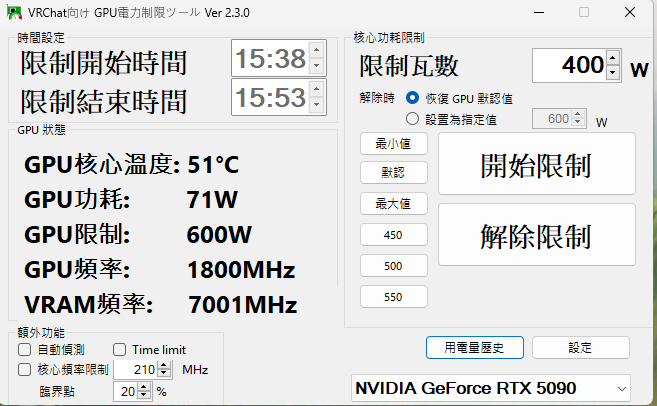
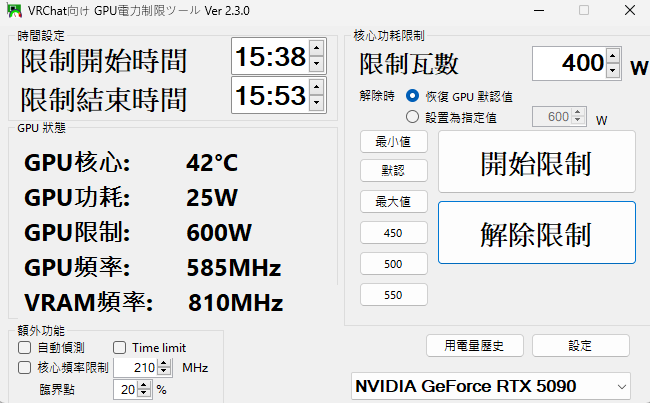
20250718

diff --git a/VRCGPUTool/Form/MainForm.cs b/VRCGPUTool/Form/MainForm.cs
@@ -35,6 +35,7 @@ namespace VRCGPUTool.Form
         private bool ignoreTimeCheck = false;
         internal int limittime = 0;
         private DateTime datetime_now = DateTime.Now;
+        private int uiUpdateCounter = 0;
 
         private void MainForm_Load(object sender, EventArgs e)
         {
@@ -62,7 +63,7 @@ namespace VRCGPUTool.Form
             GPUCorePLValue.Text = "GPU限制:        " + firstGpu.PLimit.ToString() + "W";
 
 
-            GPUreadTimer.Interval = 1000;
+            GPUreadTimer.Interval = 800;
             GPUreadTimer.Enabled = true;
 
             BeginTime.Enabled = limitime.Checked;
@@ -93,11 +94,11 @@ namespace VRCGPUTool.Form
 
                 if (CoreLimitEnable.Checked == true)
                 {
-                    nvsmi.nvidia_smi("-lgc 210," + CoreClockSetting.Value + "--id=" + g.UUID);
+                    nvsmi.nvidia_smi($"-lgc 210,{CoreClockSetting.Value}--id={g.UUID}");
                 }
 
-                nvsmi.nvidia_smi("-pl " + PowerLimitValue.Value.ToString() + " --id=" + g.UUID);
-                GPUCorePLValue.Text = "GPU限制:        " + PowerLimitValue.Value.ToString() + "W";
+                nvsmi.nvidia_smi($"-pl {PowerLimitValue.Value} --id={g.UUID}");
+                GPUCorePLValue.Text = $"GPU限制:        {PowerLimitValue.Value}W";
             }
             else
             {
@@ -120,20 +121,20 @@ namespace VRCGPUTool.Form
 
                 if (CoreLimitEnable.Checked == true)
                 {
-                    nvsmi.nvidia_smi("-rgc --id=" + g.UUID);
+                    nvsmi.nvidia_smi($"-rgc --id={g.UUID}");
                 }
 
                 if (expection == false)
                 {
                     if (ResetGPUDefaultPL.Checked == true)
                     {
-                        nvsmi.nvidia_smi("-pl " + g.PLimitDefault.ToString() + " --id=" + g.UUID);
-                        GPUCorePLValue.Text = "GPU限制:        " + g.PLimitDefault.ToString() + "W";
+                        nvsmi.nvidia_smi($"-pl {g.PLimitDefault} --id={g.UUID}");
+                        GPUCorePLValue.Text = $"GPU限制:        {g.PLimitDefault}W";
                     }
                     else
                     {
-                        nvsmi.nvidia_smi("-pl " + SpecificPLValue.Value.ToString() + " --id=" + g.UUID);
-                        GPUCorePLValue.Text = "GPU限制:        " + SpecificPLValue.Value.ToString() + "W";
+                        nvsmi.nvidia_smi($"-pl {SpecificPLValue.Value} --id={g.UUID}");
+                        GPUCorePLValue.Text = $"GPU限制:        {SpecificPLValue.Value}W";
                     }
                 }
             }
@@ -151,7 +152,10 @@ namespace VRCGPUTool.Form
                     Limit_Action(true, false);
                 }
             }
-            Limit_Action(true, false);
+            else
+            {
+                Limit_Action(true, false);
+            }
         }
 
         private void ForceUnlimit_Click(object sender, EventArgs e)
@@ -166,7 +170,10 @@ namespace VRCGPUTool.Form
                     Limit_Action(false, false);
                 }
             }
-            Limit_Action(false, false);
+            else
+            {
+                Limit_Action(false, false);
+            }
         }
 
         private void SelectGPUChanged(object sender, EventArgs e)
@@ -178,18 +185,46 @@ namespace VRCGPUTool.Form
 
         private void GPUreadTimer_Tick(object sender, EventArgs e)
         {
-            // Prevent unnecessary updates if form is minimized or not visible
-            if (!this.Visible || this.WindowState == FormWindowState.Minimized)
+            if (this.Visible == false || this.WindowState == FormWindowState.Minimized)
             {
                 return;
             }
 
-            if(nvsmi.NvsmiWorker.IsBusy == false)
-            {
-                nvsmi.NvsmiWorker.RunWorkerAsync();
-            }
-            // Even if worker is busy, we don't want UI to appear frozen
+            uiUpdateCounter++;
 
+            if (uiUpdateCounter % 2 == 0) // Executes every 2 seconds
+            {
+                if (nvsmi.NvsmiWorker.IsBusy == false)
+                {
+                    nvsmi.NvsmiWorker.RunWorkerAsync();
+                }
+
+                if (AutoDetect.Checked == true && limitstatus == true)
+                {
+                    try
+                    {
+                        if (autoLimit.CheckAutoLimit(gpuStatuses.ElementAt(GpuIndex.SelectedIndex)))
+                        {
+                            Limit_Action(true, false);
+                        }
+                    }
+                    catch (Exception ex)
+                    {
+                        MessageBox.Show($"自動限制檢查時發生錯誤: {ex.Message}", "警告", MessageBoxButtons.OK, MessageBoxIcon.Warning);
+                    }
+                }
+
+                datetime_now = DateTime.Now;
+                if (datetime_now.Hour == BeginTime.Value.Hour && datetime_now.Minute == BeginTime.Value.Minute && !limitstatus && limitime.Checked)
+                {
+                    Limit_Action(true, false);
+                }
+                if (datetime_now.Hour == EndTime.Value.Hour && datetime_now.Minute == EndTime.Value.Minute && limitstatus && limitime.Checked)
+                {
+                    AutoDetect.Checked = false;
+                    Limit_Action(false, false);
+                }
+            }
 
             if (limitstatus)
             {
@@ -198,33 +233,6 @@ namespace VRCGPUTool.Form
             else
             {
                 limittime = 0;
-            }
-
-            if (AutoDetect.Checked == true && limitstatus == true)
-            {
-                try
-                {
-                    if (autoLimit.CheckAutoLimit(gpuStatuses.ElementAt(GpuIndex.SelectedIndex)))
-                    {
-                        Limit_Action(true, false);
-                    }
-                }
-                catch (Exception ex)
-                {
-                    MessageBox.Show($"自動限制檢查時發生錯誤: {ex.Message}", "警告", MessageBoxButtons.OK, MessageBoxIcon.Warning);
-                }
-            }
-
-            datetime_now = DateTime.Now;
-            if (datetime_now.Hour == BeginTime.Value.Hour && datetime_now.Minute == BeginTime.Value.Minute && !limitstatus && limitime.Checked)
-            {
-                Limit_Action(true, false);
-            }
-            if (datetime_now.Hour == EndTime.Value.Hour && datetime_now.Minute == EndTime.Value.Minute && limitstatus && limitime.Checked)
-            {
-                AutoDetect.Checked = false;
-
-                Limit_Action(false, false);
             }
         }
 
@@ -415,7 +423,7 @@ namespace VRCGPUTool.Form
 
         internal void UpdateGpuInfoUI(GpuStatus g)
         {
-            GPUCoreTemp.Text = $"GPU核心溫度: {g.CoreTemp}°C";
+            GPUCoreTemp.Text = $"GPU核心:        {g.CoreTemp}°C";
             GPUTotalPower.Text = $"GPU功耗:        {g.PowerDraw}W";
             GPUCorePLValue.Text = $"GPU限制:        {g.PLimit}W";
             GPUCoreClockValue.Text = $"GPU頻率:        {g.CoreClock}MHz";

diff --git a/VRCGPUTool/Util/StartupTask.cs b/VRCGPUTool/Util/StartupTask.cs
@@ -1,7 +1,7 @@
-using System;
+using System;
 using System.IO;
 using System.Windows.Forms;
-using TaskScheduler;
+using Microsoft.Win32.TaskScheduler;
 
 namespace VRCGPUTool.Util
 {
@@ -13,96 +13,49 @@ namespace VRCGPUTool.Util
 
         public void registerTask()
         {
-            ITaskService taskservice = null;
-            ITaskFolder taskfolder = null;
-
             try
             {
-                taskservice = new TaskScheduler.TaskScheduler();
-                taskservice.Connect();
-                taskfolder = taskservice.GetFolder("\\");
-                var path = "\\" + TASK_NAME;
+                using (TaskService ts = new TaskService())
+                {
+                    TaskDefinition td = ts.NewTask();
+                    td.RegistrationInfo.Author = AUTHOR;
+                    td.RegistrationInfo.Description = DESCRIPTION;
 
-                ITaskDefinition taskDefinition = taskservice.NewTask(0);
-                IRegistrationInfo registrationInfo = taskDefinition.RegistrationInfo;
-                IActionCollection actionCollection = taskDefinition.Actions;
-                IExecAction execAction = (IExecAction)actionCollection.Create(_TASK_ACTION_TYPE.TASK_ACTION_EXEC);
-                ITriggerCollection triggerCollection = taskDefinition.Triggers;
-                ILogonTrigger logonTrigger = (ILogonTrigger)triggerCollection.Create(_TASK_TRIGGER_TYPE2.TASK_TRIGGER_LOGON);
-                ITaskSettings taskSettings = taskDefinition.Settings;
-                IPrincipal principal = taskDefinition.Principal;
+                    td.Principal.UserId = $@"{Environment.UserDomainName}\{Environment.UserName}";
+                    td.Principal.LogonType = TaskLogonType.InteractiveToken;
+                    td.Principal.RunLevel = TaskRunLevel.Highest;
 
-                taskSettings.ExecutionTimeLimit = "PT0S";
-                taskSettings.DisallowStartIfOnBatteries = true;
-                taskSettings.Priority = 7;
+                    LogonTrigger lt = new LogonTrigger();
+                    lt.UserId = $@"{Environment.UserDomainName}\{Environment.UserName}";
+                    td.Triggers.Add(lt);
 
-                logonTrigger.Enabled = true;
-                logonTrigger.UserId = $@"{Environment.UserDomainName}\{Environment.UserName}";
+                    td.Settings.ExecutionTimeLimit = TimeSpan.Zero;
+                    td.Settings.DisallowStartIfOnBatteries = true;
+                    td.Settings.Priority = System.Diagnostics.ProcessPriorityClass.BelowNormal;
 
-                registrationInfo.Author = AUTHOR;
-                registrationInfo.Description = DESCRIPTION;
+                    td.Actions.Add(new ExecAction(Application.ExecutablePath, null, Path.GetDirectoryName(Application.ExecutablePath)));
 
-                principal.UserId = $@"{Environment.UserDomainName}\{Environment.UserName}";
-                principal.LogonType = _TASK_LOGON_TYPE.TASK_LOGON_INTERACTIVE_TOKEN;
-                principal.RunLevel = _TASK_RUNLEVEL.TASK_RUNLEVEL_HIGHEST;
-
-                execAction.Path = Application.ExecutablePath;
-                execAction.WorkingDirectory = Path.GetDirectoryName(Application.ExecutablePath);
-
-                taskfolder.RegisterTaskDefinition(
-                    path,
-                    taskDefinition,
-                    (int)_TASK_CREATION.TASK_CREATE_OR_UPDATE,
-                    null,
-                    null,
-                    _TASK_LOGON_TYPE.TASK_LOGON_NONE,
-                    null
-                );
+                    ts.RootFolder.RegisterTaskDefinition(TASK_NAME, td, TaskCreation.CreateOrUpdate, null, null, TaskLogonType.None);
+                }
             }
             catch (Exception ex)
             {
                 MessageBox.Show($"錯誤\n{ex.Message}");
             }
-            finally
-            {
-                if (taskservice != null)
-                {
-                    System.Runtime.InteropServices.Marshal.ReleaseComObject(taskservice);
-                }
-                if (taskfolder != null)
-                {
-                    System.Runtime.InteropServices.Marshal.ReleaseComObject(taskfolder);
-                }
-            }
         }
 
         public void removeTask()
         {
-            ITaskService taskservice = null;
-            ITaskFolder taskfolder = null;
-
             try
             {
-                taskservice = new TaskScheduler.TaskScheduler();
-                taskservice.Connect();
-                taskfolder = taskservice.GetFolder("\\");
-
-                taskfolder.DeleteTask(TASK_NAME, 0);
+                using (TaskService ts = new TaskService())
+                {
+                    ts.RootFolder.DeleteTask(TASK_NAME);
+                }
             }
             catch
             {
                 //未登録
-            }
-            finally
-            {
-                if (taskservice != null)
-                {
-                    System.Runtime.InteropServices.Marshal.ReleaseComObject(taskservice);
-                }
-                if (taskfolder != null)
-                {
-                    System.Runtime.InteropServices.Marshal.ReleaseComObject(taskfolder);
-                }
             }
         }
     }
